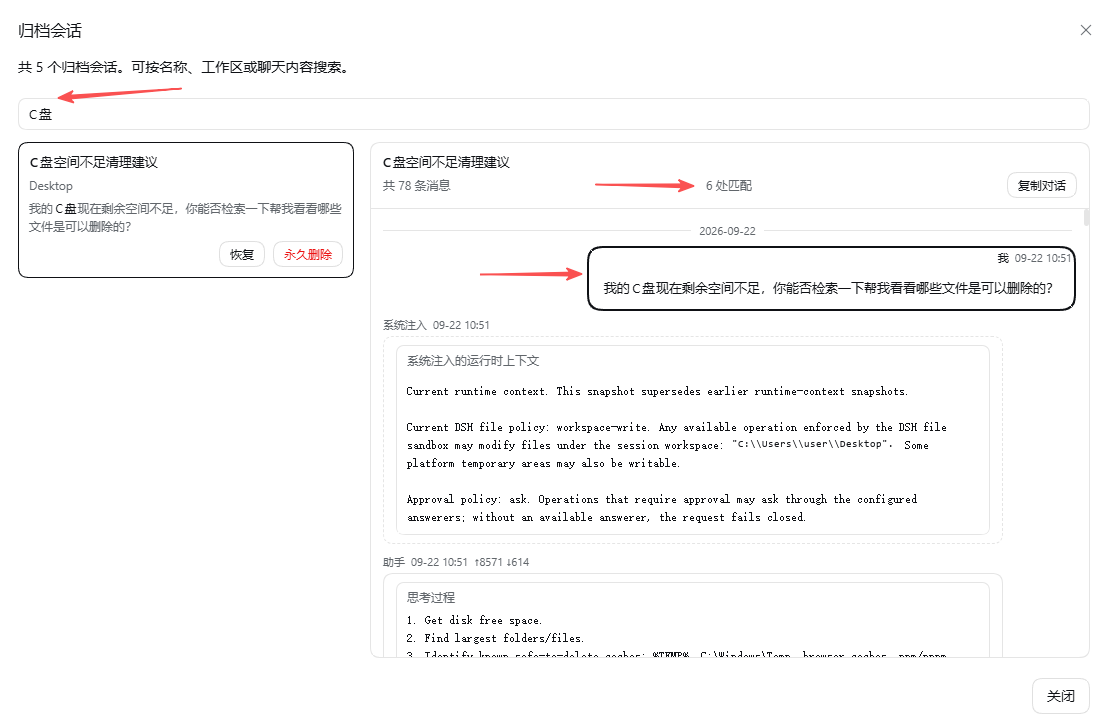
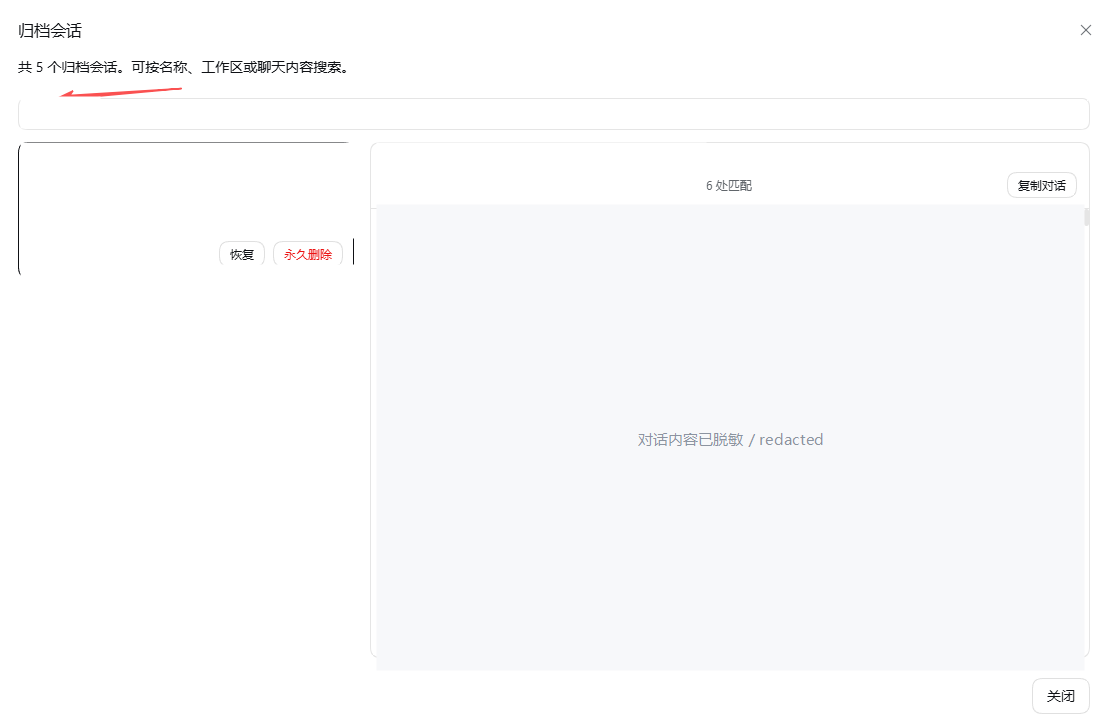
1.5.3: redact private session data from README screenshots

diff --git a/PUBLISH.md b/PUBLISH.md
@@ -19,6 +19,11 @@ artifact (`npm run build`), so the two are always in sync.
    `raw.githubusercontent.com` URLs, so they render on GitHub **and** on npmjs; `docs/assets` is also in
    `files` so the tarball stays self-contained for other viewers. Note that `raw.githubusercontent.com`
    can be unreachable from mainland China, where the mirror's README page will show broken images.
+   **Privacy: every screenshot must be redacted before it enters `docs/assets/`.** Mask real session
+   names, workspace names, search queries, user prompts and transcript lines (see `1.5.3`); the repository's
+   images are fetched live by the npm README pages of *all* published versions, so replacing them in
+   `main` also updates the old versions' pages. Tarballs of already-published versions cannot be changed —
+   deprecate those versions instead (`npm deprecate dsh-chat-manager-wide@1.5.2 "..."`).
 3. **Publish to npmjs.org, not to your mirror.** `~/.npmrc` on this machine sets
    `registry=https://registry.npmmirror.com`, which is a read-only mirror — publishing there fails.
    `package.json` therefore pins `publishConfig.registry` to `https://registry.npmjs.org/`, which npm
@@ -32,13 +37,13 @@ artifact (`npm run build`), so the two are always in sync.
    ```sh
    npm view dsh-chat-manager-wide versions --registry https://registry.npmjs.org
    ```
-   Published so far: `1.4.0`, `1.5.0`, and `1.5.1`. `1.4.1` was prepared and then abandoned in favour
-   of the route C release, so do not publish `1.4.1`.
+   Published so far: `1.4.0`, `1.5.0`, `1.5.1`, `1.5.2`, and `1.5.3`. `1.4.1` was prepared and then
+   abandoned in favour of the route C release, so do not publish `1.4.1`.
 5. **Put it in git.** The repository already exists and is initialized; publish from a clean tree:
    ```sh
    git status                    # must be clean
    git remote -v                 # origin -> WindAndWood/dsh-chat-manager-wide
-   git tag -a v1.5.2 -m "dsh-chat-manager-wide 1.5.2"
+   git tag -a v1.5.3 -m "dsh-chat-manager-wide 1.5.3"
    git push origin main --follow-tags
    ```
    `.gitattributes` pins `* text=auto eol=lf`, so a checkout/rollback keeps `lib/client.js` byte-exact
@@ -99,15 +104,15 @@ node -e "const s=require('fs').readFileSync('lib/client.js','utf8');console.log(
 ## 2. Dry run, then publish
 
 ```sh
-npm pack                    # -> dsh-chat-manager-wide-1.5.2.tgz
-tar -tzf dsh-chat-manager-wide-1.5.2.tgz    # inspect the published file list (21 files)
-npm publish                 # unscoped name; 1.5.2 is a normal release, so no --tag is needed
+npm pack                    # -> dsh-chat-manager-wide-1.5.3.tgz
+tar -tzf dsh-chat-manager-wide-1.5.3.tgz    # inspect the published file list (21 files)
+npm publish                 # unscoped name; 1.5.3 is a normal release, so no --tag is needed
 ```
 
-`1.5.2` carries no prerelease segment, so npm publishes it to `latest` and a bare
+`1.5.3` carries no prerelease segment, so npm publishes it to `latest` and a bare
 `dsh plugin --profile web add dsh-chat-manager-wide` resolves to it.
 
-When you later iterate with a prerelease version (for example `1.5.2-next.1`), a bare `npm publish`
+When you later iterate with a prerelease version (for example `1.5.3-next.1`), a bare `npm publish`
 fails with "You must specify a tag using --tag when publishing a prerelease version". Use
 `npm publish --tag next` for a channel, or `--tag latest` when a bare install should resolve to it.
 Note that `--tag next` leaves the package without a `latest` tag, so version-less installs fail until
@@ -128,10 +133,10 @@ routes, so installing them side by side gives you duplicate route registrations.
 dsh plugin --profile web remove dsh-chat-manager
 
 # from the registry:
-dsh plugin --profile web add dsh-chat-manager-wide@1.5.2
+dsh plugin --profile web add dsh-chat-manager-wide@1.5.3
 
 # or from the tarball, to test before publishing (absolute path or ./relative works)
-dsh plugin --profile web add .\dsh-chat-manager-wide-1.5.2.tgz
+dsh plugin --profile web add .\dsh-chat-manager-wide-1.5.3.tgz
 ```
 
 Then **restart DSH** — the host half (`src/`) is loaded at boot, so the archive-detail route does not

diff --git a/AGENTS.md b/AGENTS.md
@@ -1,5 +1,5 @@
 > **Fork note.** This is the `dsh-chat-manager-wide` fork. Every command and package spec in this
-> document already points at `dsh-chat-manager-wide@1.5.2`. Do not install it next to the
+> document already points at `dsh-chat-manager-wide@1.5.3`. Do not install it next to the
 > original `dsh-chat-manager` in one profile.
 
 # Agent installation guide
@@ -10,7 +10,7 @@ or remove `dsh-chat-manager-wide` in a selected DeepSeek Harness profile.
 ## Safety and responsibility boundary
 
 - Confirm the target DSH installation and profile. Use `web` only when it is the user's target.
-- Use the fixed `dsh-chat-manager-wide@1.5.2` package below; never substitute a moving branch or an
+- Use the fixed `dsh-chat-manager-wide@1.5.3` package below; never substitute a moving branch or an
   unreviewed source.
 - Do not print session contents, full profile files, transcript paths, credentials, or other private data.
 - Do not start, stop, or restart DSH without explicit permission.
@@ -30,7 +30,7 @@ requirements. A cancelled confirmation is the safe default and must not send a d
 The `dsh-chat-manager-wide` package is a standard DSH bundle (a fork of `dsh-chat-manager` 1.3.4) with a `dsh.bundle` profile patch. Its exact package spec is:
 
 ```text
-dsh-chat-manager-wide@1.5.2
+dsh-chat-manager-wide@1.5.3
 ```
 
 Since 1.5.0 the bundle no longer disables or replaces the official workspace row. Its client half is a small
@@ -71,7 +71,7 @@ record the selected profile's relevant metadata before invoking it, without prin
 With an existing `dsh` command, run exactly:
 
 ```sh
-dsh plugin --profile web add dsh-chat-manager-wide@1.5.2
+dsh plugin --profile web add dsh-chat-manager-wide@1.5.3
 ```
 
 Use the same `add` command to update or repair. The DSH CLI owns target selection, dependency resolution,
@@ -89,7 +89,7 @@ dsh plugin --profile web list dsh-chat-manager-wide --depth 0
 ```
 
 1. The `dsh-chat-manager-wide` bundle appears exactly once in the requested profile.
-2. Its direct package spec is the fixed `dsh-chat-manager-wide@1.5.2` npm version above.
+2. Its direct package spec is the fixed `dsh-chat-manager-wide@1.5.3` npm version above.
 3. The profile contains the bundle patch, and the official `@deepseek-ai/dsh-web-app` bundle is still
    composed (this plugin must not skip or shadow it).
 4. No unrelated dependency, profile patch, or session data was changed by the operation.

diff --git a/CHANGELOG.md b/CHANGELOG.md
@@ -1,5 +1,29 @@
 # Changelog
 
+## 1.5.3
+
+Privacy release: the bundled README screenshots no longer show real session data.
+
+### Changed
+
+* The three screenshots in `docs/assets/` (`menu-entries.png`, `archive-transcript.png`,
+  `archive-search.png`) now mask every real session title, workspace name, search query, user prompt and
+  transcript line behind neutral blocks labelled "对话内容已脱敏 / redacted". The UI chrome, layout,
+  buttons and the plugin's menu rows stay readable.
+* The README image URLs point at `main` in the repository, so the redacted files also replace the
+  screenshots shown on the npm pages of the earlier `1.5.0`–`1.5.2` releases. The **already-published
+  tarballs** of those versions still contain the old files and cannot be modified; the older versions are
+  deprecated (`npm deprecate`) with a pointer to `1.5.3`.
+* Both READMEs state that the screenshots are redacted.
+* No functional change: `src/` (host and client halves) and `lib/client.js` are identical to `1.5.2`.
+
+### Verification
+
+* `verify-package.mjs` proves the peer gate still accepts `0.2.0-rc.2` and `0.2.1-rc.2` and still rejects
+  `0.3.0-rc.1`; host/client/package/profile suites pass unchanged.
+* The redacted images were inspected at full size: no session id, workspace name, query or transcript text
+  remains in the visible pixels.
+
 ## 1.5.2
 
 Fix: DSH `0.2.1-rc.2` rejected the published `1.5.1` although the plugin code was unaffected.

diff --git a/README.en.md b/README.en.md
@@ -73,12 +73,14 @@ click on an archived session row in the sidebar.
 
 <img src="https://raw.githubusercontent.com/WindAndWood/dsh-chat-manager-wide/main/docs/assets/archive-search.png" alt="Archived content search: match count, outlined first hit, highlighted snippet" width="1104">
 
+> Real session names, workspaces and conversation content are masked in these screenshots.
+
 ## Install
 
 ### Standard DSH command
 
 ```sh
-dsh plugin --profile web add dsh-chat-manager-wide@1.5.2
+dsh plugin --profile web add dsh-chat-manager-wide@1.5.3
 ```
 
 When the command finishes, save your work and restart DSH once through its normal workflow so the new
@@ -155,7 +157,7 @@ entries and leaves the official features untouched.
 Install the target npm version with the same standard DSH command. For the current version:
 
 ```sh
-dsh plugin --profile web add dsh-chat-manager-wide@1.5.2
+dsh plugin --profile web add dsh-chat-manager-wide@1.5.3
 ```
 
 Uninstall removes only this plugin's bundle layer and never deletes sessions:
